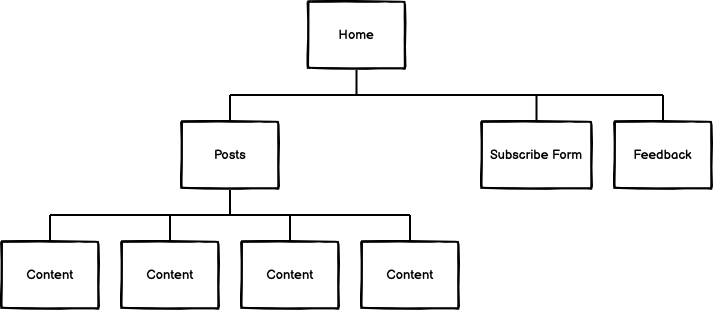
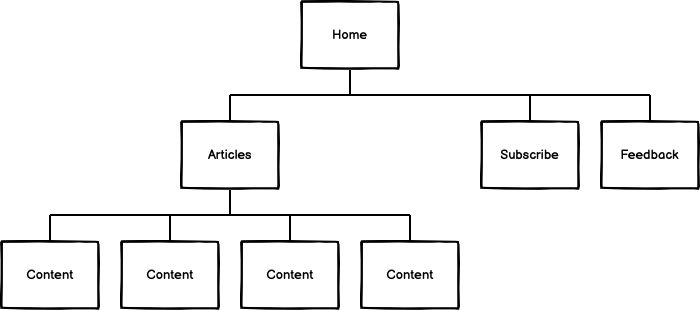
Add tutorial links to articles, style them, and add hover state to all links, including footer links, updated README.md.

diff --git a/assets/css/style.css b/assets/css/style.css
@@ -1,5 +1,4 @@
-@import url('https://fonts.googleapis.com/css2?family=Archivo+Black&family=Teko&family=Unbounded&display=swap');
-
+@import url('https://fonts.googleapis.com/css2?family=Teko&display=swap');
 
 * {
   margin: 0;
@@ -20,6 +19,7 @@
 }
 
 /* hamburger menu */
+
 .toggle-button {
   position: absolute;
   top: .75rem;
@@ -192,6 +192,17 @@
   margin: 1em 0 1em 0;
 }
 
+.tutorial-link {
+  text-decoration: none;
+  font-family: Teko;
+  color: rgba(48, 36, 255, 1);
+  font-size: 1.5em;
+}
+
+.tutorial-link:hover {
+  text-decoration: underline;
+}
+
 /* feedback */
 
 #feedback-container {
@@ -335,6 +346,11 @@
   color: rgba(48, 36, 255, .85);
 }
 
+#footer-container a:hover {
+  text-decoration: underline;
+  color: rgba(48, 36, 255, .85);
+}
+
 #copyright {
   display: flex;
   justify-content: center;
@@ -401,14 +417,13 @@
     grid-template-columns: 45% 45%;
   }
 
-  #header{
+  #header {
     width: 94%;
   }
 
   .cards {
     margin-bottom: 10%;
     width: 40vw;
-
   }
 
   .cards-bottom {
@@ -419,7 +434,7 @@
     max-width: 70%;
   }
 
-  #feedback-form{
+  #feedback-form {
     max-width: 70%;
   }
 
@@ -460,7 +475,7 @@
     padding: .5rem 1rem;
   }
 
-  .navbar-links.active{
+  .navbar-links.active {
     display: flex;
   }
 
@@ -473,6 +488,7 @@
 
   #article {
     max-width: 87%;
+    text-align: left;
   }
 
   .article-image {
@@ -491,7 +507,6 @@
       margin-bottom: 70%;
   }
     
-
   #header > p { 
       display: none;
       

diff --git a/github-article.html b/github-article.html
@@ -70,6 +70,9 @@
       <p>
         In conclusion, GitHub has had a significant impact on the world of software development since its creation in 2008. Its use of Git and web-based functionality has made it easy for developers to collaborate and share their code with others. GitHub's social features and focus on open-source development have helped to foster a strong community around the platform. As technology continues to evolve, we can expect GitHub to continue to play a vital role in the future of software development and collaboration.
       </p>
+      <p>
+        <b> Do you want to learn more about GitHub? Here is a link to an <br> GitHub tutorial: </b> <a class="tutorial-link" href="https://docs.github.com/en/get-started/quickstart/hello-world" target="_blank" rel="noopener" aria-label="Link to an GitHub tutorial at GitHub Docs"><i class="fa-solid fa-graduation-cap"></i> GitHub Docs</a> 
+      </p>
     </article>
     <footer id="footer-container">
       <a href="https://www.facebook.com/" target="_blank" rel="noopener" aria-label="visit our page on face book"><i

diff --git a/index.html b/index.html
@@ -115,7 +115,7 @@
               <img src="assets/images/javascript.webp" alt="javascript logo">
 
               <h4>JavaScript</h4><br>
-              <p class="cut-text">JavaScript is a high-level, dynamic programming language that is used         
+              <p class="cut-text">JavaScript is a high-level, dynamic programming language that is used
                 primarily for
                 creating
                 interactive websites and web applications. It was first <br> introduced in 1995 by Brendan
@@ -130,7 +130,7 @@
               <img id="github-image" src="assets/images/github.webp" alt="github logo">
 
               <h4>GitHub</h4><br>
-              <p class="cut-text"> GitHub is a web-based platform used for version control and collaboration in 
+              <p class="cut-text"> GitHub is a web-based platform used for version control and collaboration in
                 software
                 development
                 projects. It was created in 2008 by Tom Preston-Werner, Chris Wanstrath, and PJ Hyett

diff --git a/html-article.html b/html-article.html
@@ -98,6 +98,9 @@
       creating documents to a powerful tool for creating rich, interactive web applications. HTML has played a vital
       role in the growth of the World Wide Web, and it continues to be an essential technology for web developers today.
     </p>
+    <p>
+      <b> Do you want to learn more about HTML? Here is a link to an HTML tutorial: </b> <a class="tutorial-link" href="https://www.w3schools.com/html/default.asp" target="_blank" rel="noopener" aria-label="Link to an HTML tutorial at W3 schools"><i class="fa-solid fa-graduation-cap"></i> W3 schools </a> 
+    </p>
   </article>
   <footer id="footer-container">
     <a href="https://www.facebook.com/" target="_blank" rel="noopener" aria-label="visit our page on face book"><i

diff --git a/css-article.html b/css-article.html
@@ -97,6 +97,9 @@
       has played a vital role in the evolution of the web. As web technologies continue to evolve, we can expect
       CSS to continue to play a significant role in shaping the future of web design and development.
     </p>
+    <p>
+      <b> Do you want to learn more about CSS? Here is a link to an CSS tutorial: </b> <a class="tutorial-link" href="https://www.w3schools.com/css/default.asp" target="_blank" rel="noopener" aria-label="Link to an CSS tutorial at W3 schools"><i class="fa-solid fa-graduation-cap"></i> W3 schools</a> 
+    </p>
   </article>
   <footer id="footer-container">
     <a href="https://www.facebook.com/" target="_blank" rel="noopener" aria-label="visit our page on face book"><i

diff --git a/javascript-article.html b/javascript-article.html
@@ -94,6 +94,9 @@
       evolve, we can expect JavaScript to continue to be a key player in shaping the future of web development and
       beyond.
     </p>
+    <p>
+      <b> Do you want to learn more about JavaScript? Here is a link to an <br> JavaScript tutorial: </b> <a class="tutorial-link" href="https://www.w3schools.com/js/default.asp" target="_blank" rel="noopener" aria-label="Link to an JavaScript tutorial at W3 schools"><i class="fa-solid fa-graduation-cap"></i> W3 schools</a> 
+    </p>
   </article>
 
   <footer id="footer-container">

diff --git a/README.md b/README.md
@@ -1,4 +1,6 @@
-# PP1 SDLC Humberto Pereira
+# Index.Tech website
+<a href="https://humberto-pereira.github.io/index.tech/">View the live project here.</a>
+<img src="assets/readme-md-images/screenshot.png" width="1600"/>
 
 
 # User Experience (UX)
@@ -11,20 +13,24 @@
 
 ## DESIGN:
 
-- Color scheme: still being chosen. Want to try different patterns. ? 
-- Typography: still being chosen. Want to try different fonts. ?
+- Color scheme: The color scheme is white and two shades of blue that fit with the image graphics chosen for the website with enough contrast for the user. 
+- Typography: Teko is used for titles and footer;  Verdana is the most used in all text content and is easy to read and formal; the Geneva, Tahoma, and sans-serif are the backup fonts.
 - Imagery: good resolution images "not pixeled" with connection with the content.
 
 ## Thematic: Programming languages and tools; historical facts evolution and implementation.
 
-## Technologies: HTML CSS.
+## Technologies:
+- HTML, CSS and JavaScript
+## Frameworks, Libraries & Programs Used
+- 
 
 ### WebSite map
-- Menu: HOME, BLOG, SUBSCRIBE, CONTACT 
-- HOME: Landing page; logo, a brief text welcoming the user and describing the webpage, under the welcome text, four clickable blog cards. 
-- Posts: Link to Post cards.
-- SUBSCRIBE form page.      
-- CONTACT: redirect to footer with contact info. All pages follow the same style and color pattern and a footer. 
+- Menubar: Home, Articles, Subscribe, Feedback 
+- Home: Landing page: Logo, PC related graphics a brief text welcoming the user and describing the webpage, under the welcome text, four clickable Article cards and a footer.
+- Articles: Link to Articles cards.
+- Article Cards: Each Article card redirects to a specific article.
+- Subscribe: Subscribe For Receive New Posts Updates Per E-mail page.      
+- Feedback: Feedback form page.
 - 404 error page
 - Burger menu for mobile.
 
